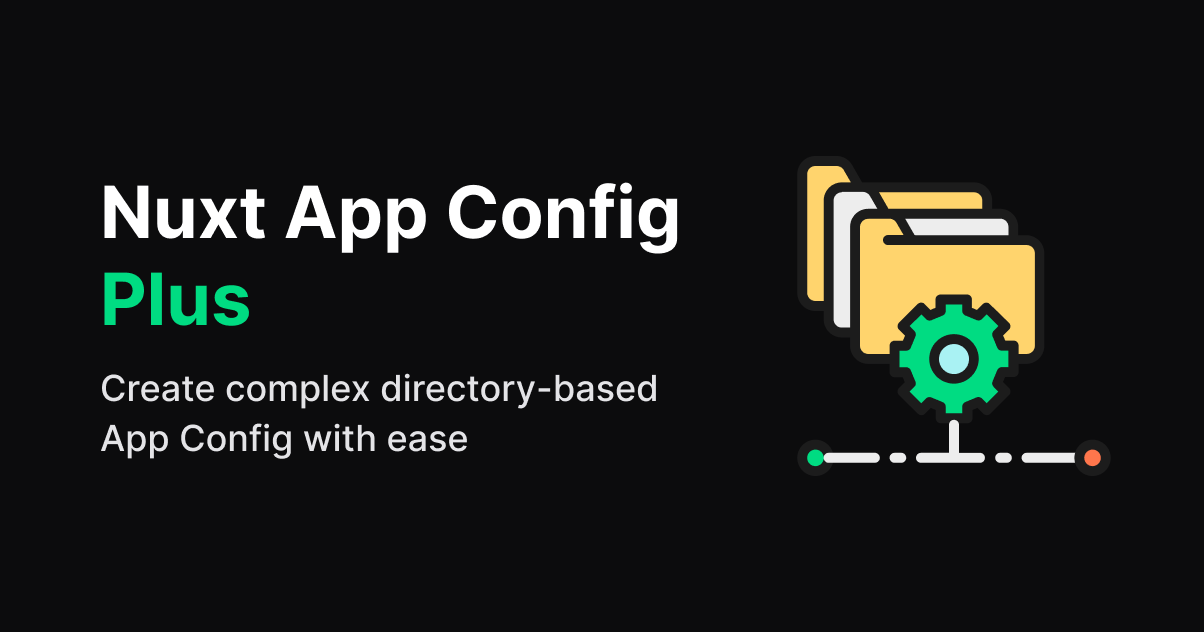
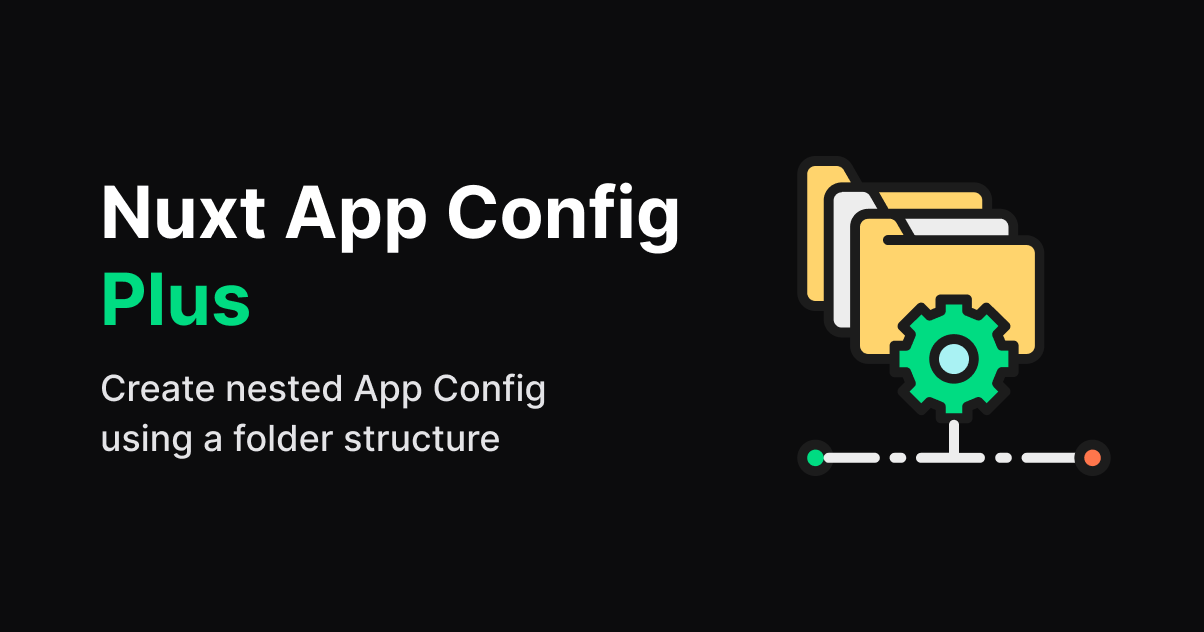
feat: add "case" option

Changed region(s): [[0.0615, 0.5712, 0.5532, 0.7215]]

diff --git a/src/module.ts b/src/module.ts
@@ -1,13 +1,19 @@
 import { existsSync, promises as fsp } from 'node:fs'
 import { defineNuxtModule, findPath, addTemplate } from '@nuxt/kit'
 import pathe from 'pathe'
-import { camelCase } from 'scule'
+import { camelCase, kebabCase } from 'scule'
 
 const moduleName = 'app-config-plus'
 const extensionsRe = /\.(js|mjs|cjs|ts|mts|cts|json)$/
 
+type Case = 'camelCase' | 'kebabCase' | {
+  dir?: 'camelCase' | 'kebabCase'
+  file?: 'camelCase' | 'kebabCase'
+}
+
 export interface ModuleOptions {
   dir: string
+  case?: Case
 }
 
 export default defineNuxtModule<ModuleOptions>({
@@ -28,7 +34,7 @@ export default defineNuxtModule<ModuleOptions>({
 
       if (existsSync(dirPath) && await isDirectory(dirPath)) {
         const sources: { name: string, path: string }[] = []
-        const config = await pathToNestedObject(dirPath, sources)
+        const config = await pathToNestedObject(dirPath, { sources, case: options.case })
         const filename = `app-configs/cfg${index}.ts`
 
         addTemplate({
@@ -57,7 +63,10 @@ export default ${unpackObjectValues(config)}
 
 async function pathToNestedObject(
   dirPath: string,
-  sources?: { name: string, path: string }[],
+  opts?: {
+    sources?: { name: string, path: string }[]
+    case?: Case
+  },
   originalPath = dirPath,
 ) {
   const fileMap: Record<string, unknown> = {}
@@ -66,13 +75,13 @@ async function pathToNestedObject(
   for (const dirent of dirContent!) {
     const fullPath = pathe.resolve(dirPath, dirent.name)
     if (dirent.isDirectory()) {
-      fileMap[camelCase(dirent.name)] = await pathToNestedObject(fullPath, sources, originalPath)
+      fileMap[changeCase(dirent.name, typeof opts?.case === 'object' ? opts.case.dir : opts?.case)] = await pathToNestedObject(fullPath, opts, originalPath)
     }
     else if (dirent.isFile() && extensionsRe.test(dirent.name)) {
       const relativePath = removeExtension(pathe.relative(originalPath, fullPath))
       const name = camelCase(relativePath)
-      fileMap[camelCase(removeExtension(dirent.name))] = `{${name}}`
-      sources?.push({ name, path: fullPath })
+      fileMap[changeCase(removeExtension(dirent.name), typeof opts?.case === 'object' ? opts.case.file : opts?.case)] = `{${name}}`
+      opts?.sources?.push({ name, path: fullPath })
     }
   }
 
@@ -99,4 +108,10 @@ function removeExtension(path: string) {
 
 async function isDirectory(path: string) {
   return (await fsp.lstat(path)).isDirectory()
+}
+
+function changeCase(input: string, caseType?: 'camelCase' | 'kebabCase') {
+  if (caseType === 'camelCase') return camelCase(input)
+  if (caseType === 'kebabCase') return kebabCase(input)
+  return input
 }

diff --git a/test/fixtures/basic/app.vue b/test/fixtures/basic/app.vue
@@ -1,6 +1,6 @@
 <template>
   <div>
-    {{ config.foo.fooBar.cat.name + ' ' + config.foo.catDog.name + ' ' + config.foo.fooBar.isAnimal }}
+    {{ config.foo.fooBar.cat.name + ' ' + config.foo['cat-dog'].name + ' ' + config.foo.fooBar.isAnimal }}
   </div>
 </template>
 

diff --git a/test/fixtures/basic/nuxt.config.ts b/test/fixtures/basic/nuxt.config.ts
@@ -4,4 +4,11 @@ export default defineNuxtConfig({
   modules: [
     MyModule,
   ],
+  appConfigPlus: {
+    dir: 'config',
+    case: {
+      dir: 'camelCase',
+      file: 'kebabCase',
+    },
+  },
 })

diff --git a/playground/layers/base/nuxt.config.ts b/playground/layers/base/nuxt.config.ts
@@ -2,5 +2,9 @@ export default defineNuxtConfig({
   modules: ['../src/module'],
   appConfigPlus: {
     dir: 'config/app',
+    case: {
+      dir: 'camelCase',
+      file: 'kebabCase',
+    },
   },
 })

diff --git a/README.md b/README.md
@@ -8,14 +8,14 @@ Find and replace all on all files (CMD+SHIFT+F):
 -->
 [![Nuxt Configs](./public/cover.png)](https://nuxt-open-fetch.vercel.app/)
 
-# Nuxt Configs
+# Nuxt App Config Plus
 
 [![npm version][npm-version-src]][npm-version-href]
 [![npm downloads][npm-downloads-src]][npm-downloads-href]
 [![License][license-src]][license-href]
 [![Nuxt][nuxt-src]][nuxt-href]
 
-Create nested App Config using folder structure
+Create nested App Config using a folder structure
 
 - [✨ &nbsp;Release Notes](/CHANGELOG.md)
 <!-- - [🏀 Online playground](https://stackblitz.com/github/your-org/nuxt-configs?file=playground%2Fapp.vue) -->
@@ -24,7 +24,7 @@ Create nested App Config using folder structure
 ## Features
 
 <!-- Highlight some of the features your module provide here -->
-- 🗂 &nbsp;Generate App Config using folder structure
+- 🗂 &nbsp;Generate App Config using a folder structure
 - 🍹 &nbsp;No need for redundant index files and re-exports
 - 📃 &nbsp;Supports `js`, `ts` and `json` files
 - 🥞 &nbsp;Supports Nuxt layers
